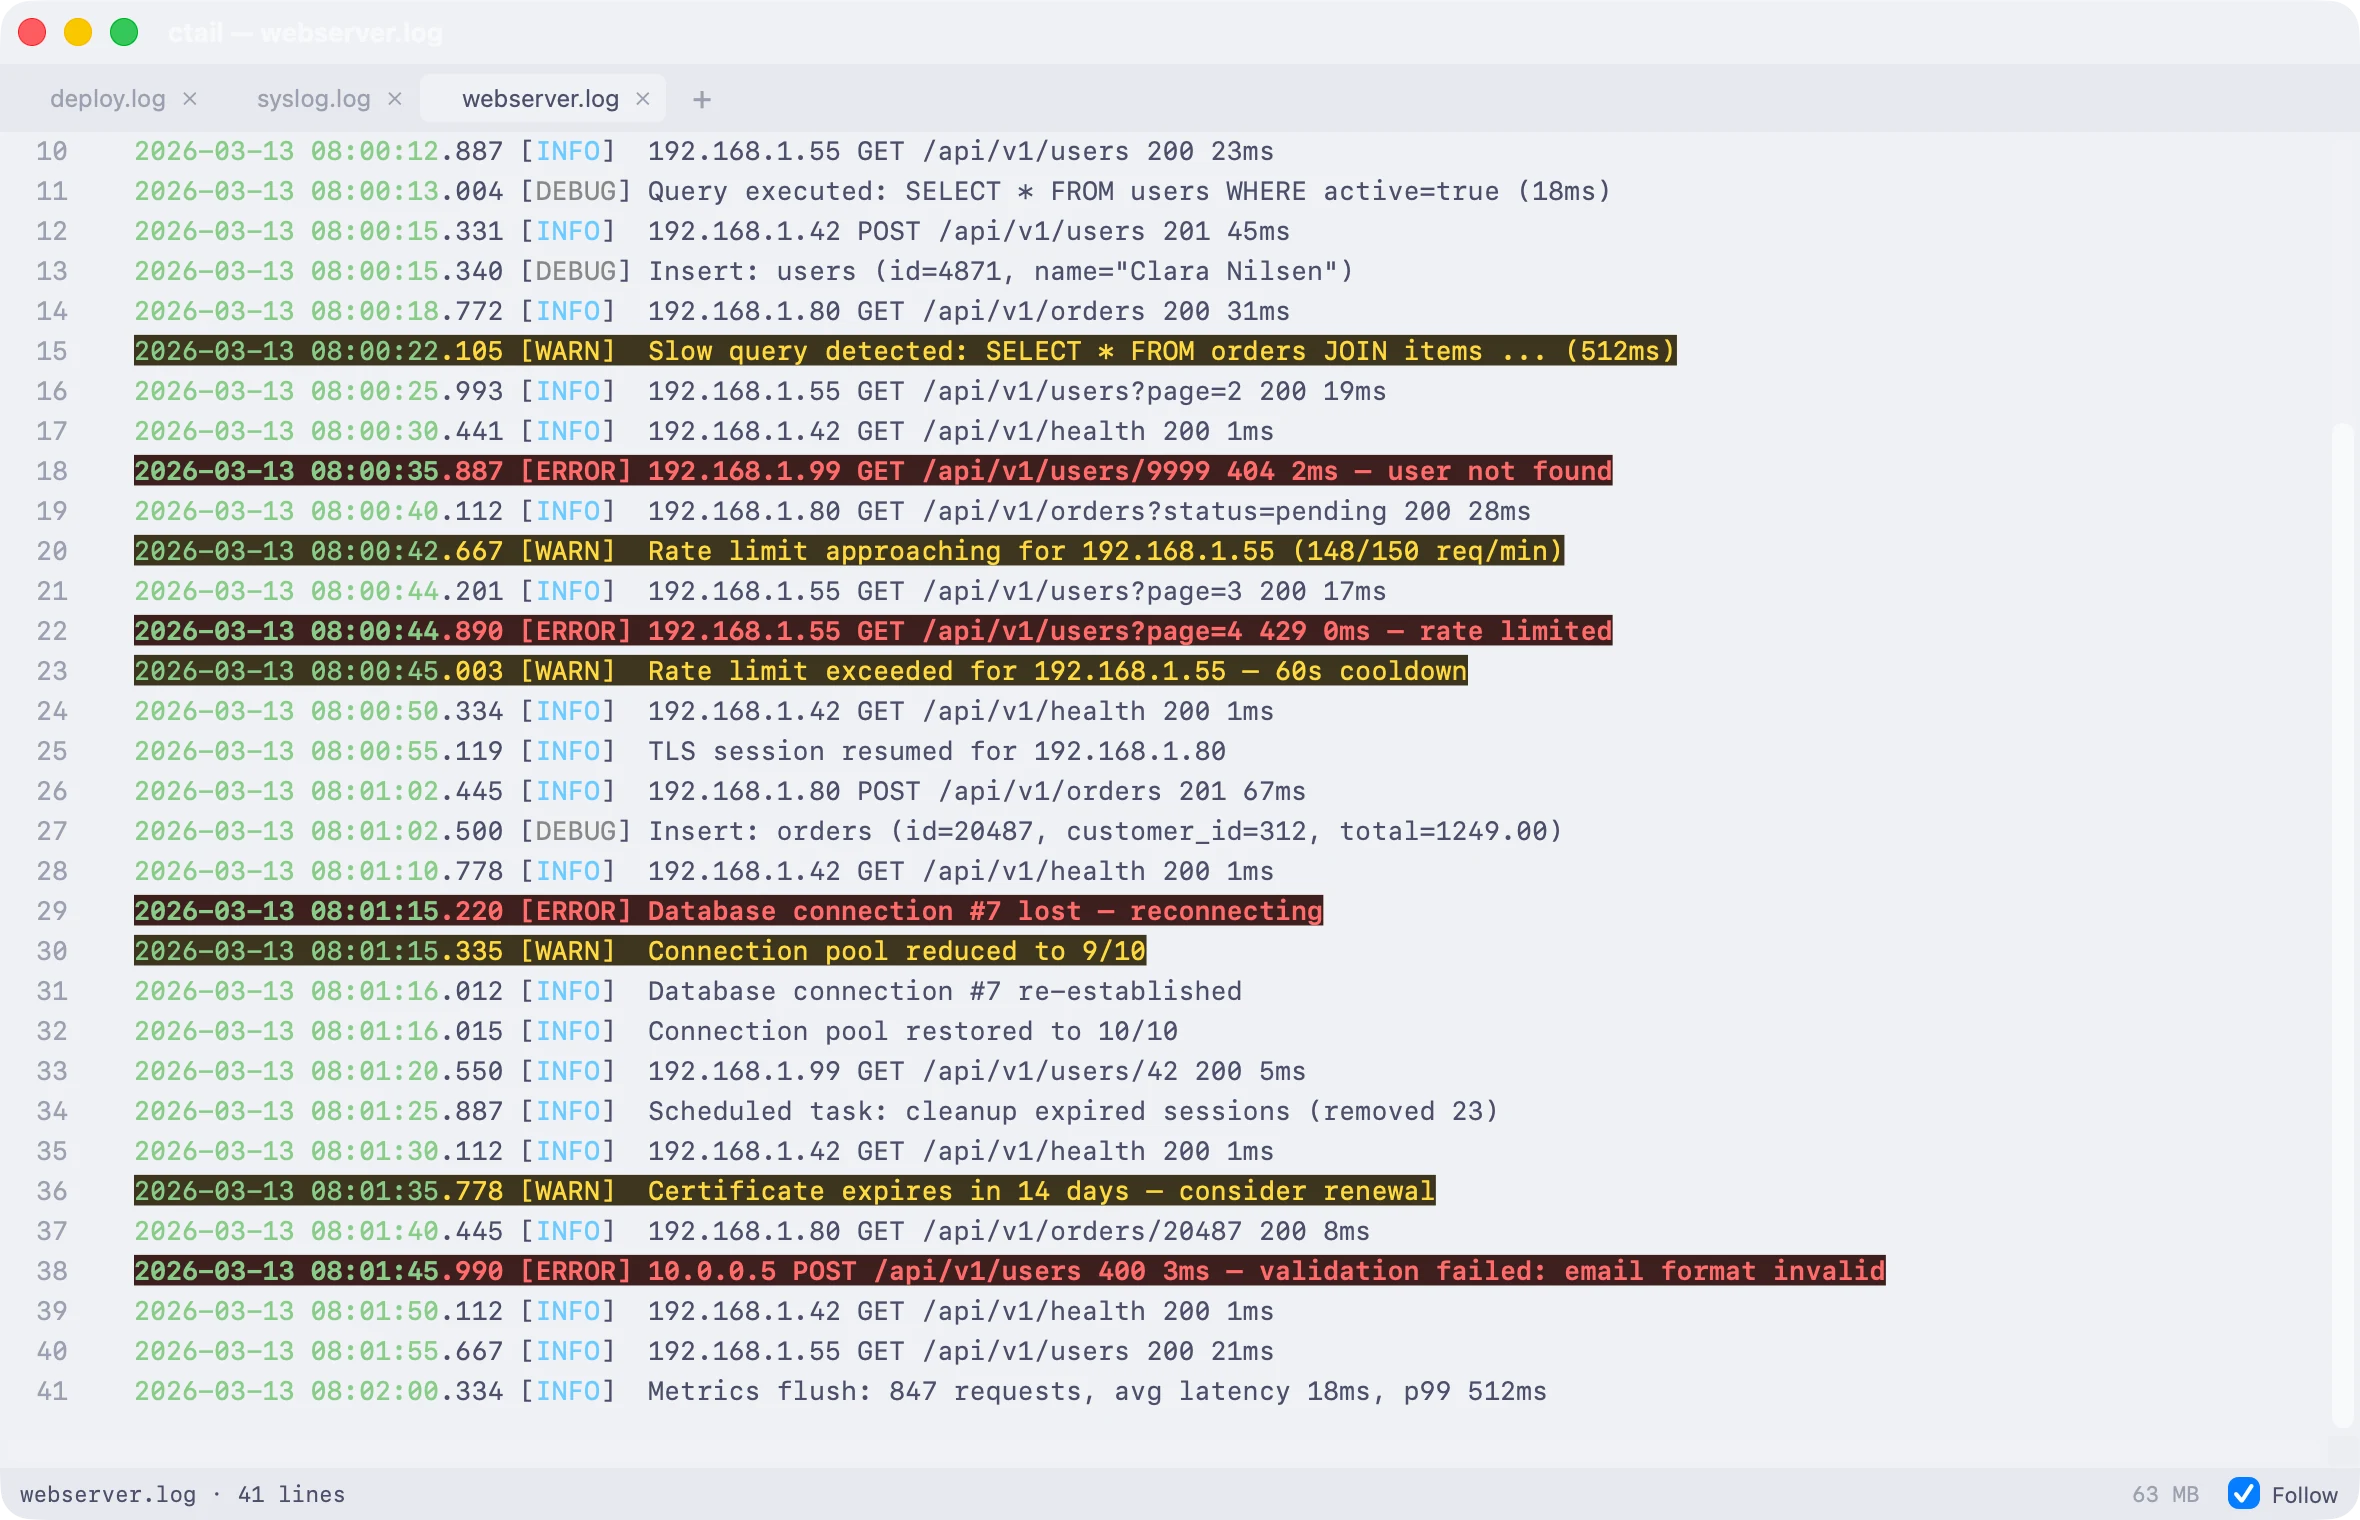
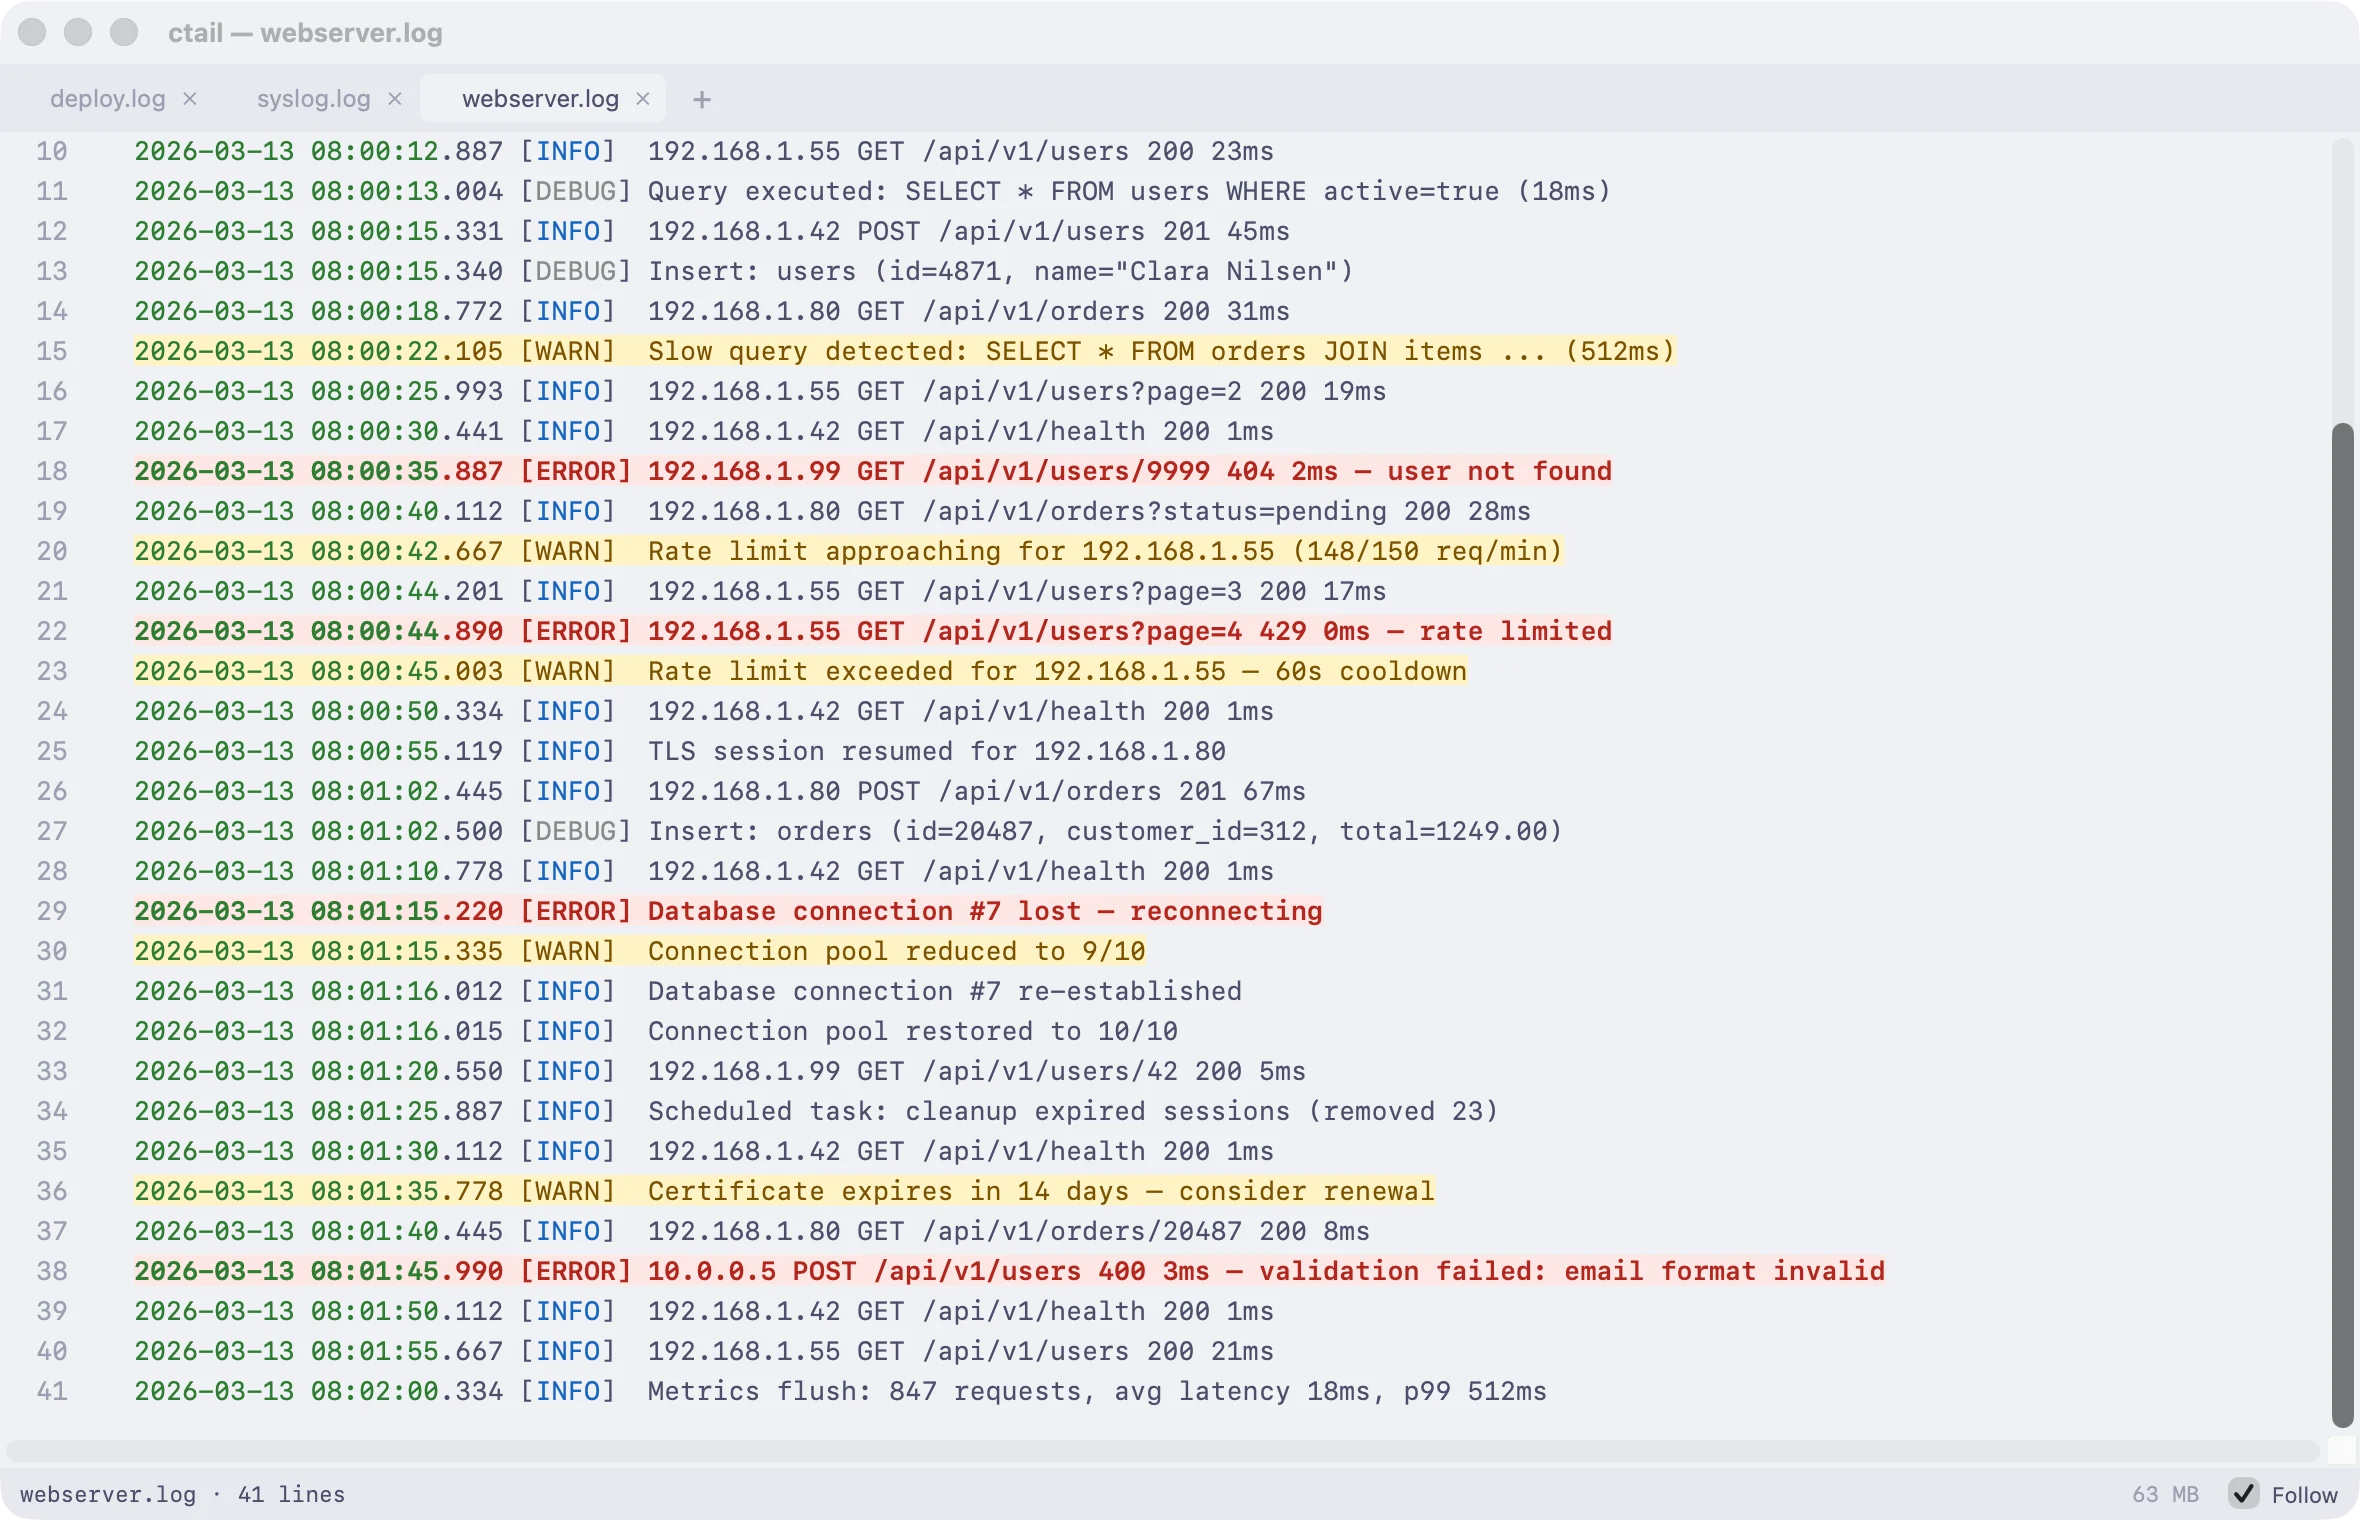
feat(site): proper light-mode screenshots; macOS chrome follows theme mode
Light-mode captures (main window, Profiles & Rules, eight light theme
thumbnails) taken with a light-friendly Common Logs profile, plus a
"light variants" row on the home page.

macOS app: set NSApp.appearance from the theme mode so title bars and
secondary windows switch to the light system appearance with a light theme,
instead of showing white title text on a light window.

diff --git a/site/src/routes/+page.svelte b/site/src/routes/+page.svelte
@@ -20,6 +20,16 @@
 		['kanagawa', 'Kanagawa'],
 		['matrix', 'Matrix']
 	];
+	const lightThemes = [
+		['catppuccin', 'Catppuccin Latte'],
+		['github', 'GitHub'],
+		['solarized', 'Solarized'],
+		['nord', 'Nord'],
+		['rose-pine', 'Rosé Pine Dawn'],
+		['everforest', 'Everforest'],
+		['gruvbox', 'Gruvbox'],
+		['one-dark', 'One Light']
+	];
 </script>
 
 <Seo />
@@ -131,6 +141,16 @@
 			{/each}
 		</div>
 		<p class="mt-6 text-center text-sm text-base-content/60">Plus Catppuccin (Latte, Frappé, Macchiato, Mocha), Ayu, Night Owl, Cobalt2, GitHub, Palenight and Zenburn. <a href="{base}/docs/themes/" class="link">See all themes</a>.</p>
+		<h3 class="mt-14 text-center text-xl font-semibold">Every theme has a light variant</h3>
+		<p class="mx-auto mt-2 max-w-2xl text-center text-sm text-base-content/60">Toggle with <strong>View ▸ Toggle Theme</strong>. The window chrome follows along.</p>
+		<div class="mt-6 grid grid-cols-2 gap-4 md:grid-cols-4">
+			{#each lightThemes as [id, name]}
+				<figure>
+					<img src="{base}/screenshots/themes/light/{id}.webp" alt="ctail in the {name} theme, light variant" loading="lazy" decoding="async" class="rounded-box border border-base-300 shadow-md" />
+					<figcaption class="mt-1.5 text-center text-xs text-base-content/60">{name}</figcaption>
+				</figure>
+			{/each}
+		</div>
 	</div>
 </section>
 

diff --git a/macos/Sources/ctailmac/AppDelegate.swift b/macos/Sources/ctailmac/AppDelegate.swift
@@ -115,6 +115,10 @@ final class AppDelegate: NSObject, NSApplicationDelegate, AppActions, NSMenuDele
 
     private func installController() {
         window.backgroundColor = palette.background
+        // Match the system chrome (title bars, secondary windows, menus) to the theme
+        // mode; otherwise a light theme under a dark system appearance gets white
+        // title text on a light window and dark Settings/Profiles windows.
+        NSApp.appearance = NSAppearance(named: settings.themeMode == "light" ? .aqua : .darkAqua)
         tabs?.shutdown()        // stop the outgoing controller's tailers before replacing it
         tabs = TabController(config: config, settings: settings, palette: palette, bookmarks: bookmarks)
         tabs.onActiveFileChanged = { [weak self] path in

diff --git a/site/src/lib/docs/themes.md b/site/src/lib/docs/themes.md
@@ -7,7 +7,9 @@ ctail ships with 21 colour themes. Every theme has a dark and a light variant.
 - **View ▸ Toggle Theme** flips between the dark and light variant of the current theme.
 - Open **ctail ▸ Settings…** (<kbd>⌘,</kbd>) and use the **Theme** and **Mode** menus to pick a different theme and variant.
 
-Theme changes apply instantly and are remembered.
+Theme changes apply instantly and are remembered. The window chrome switches between the light and dark system appearance to match.
+
+![Profiles & Rules editor in light mode](../../screenshots/profiles-light.webp)
 
 ## Built-in themes
 
